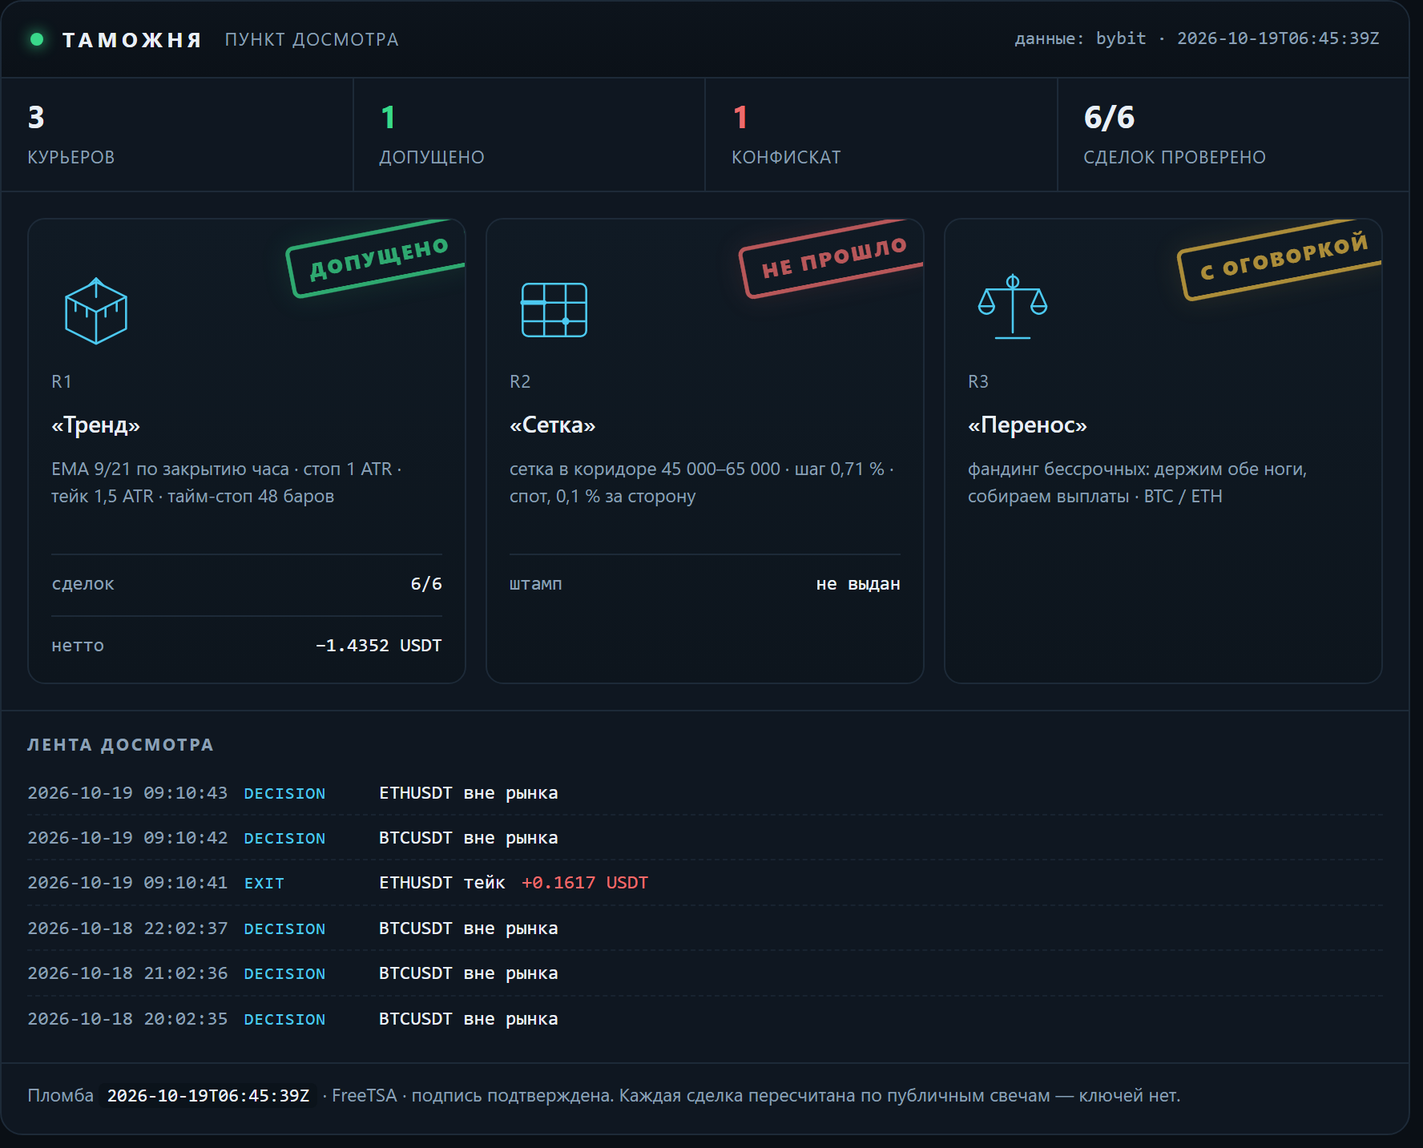
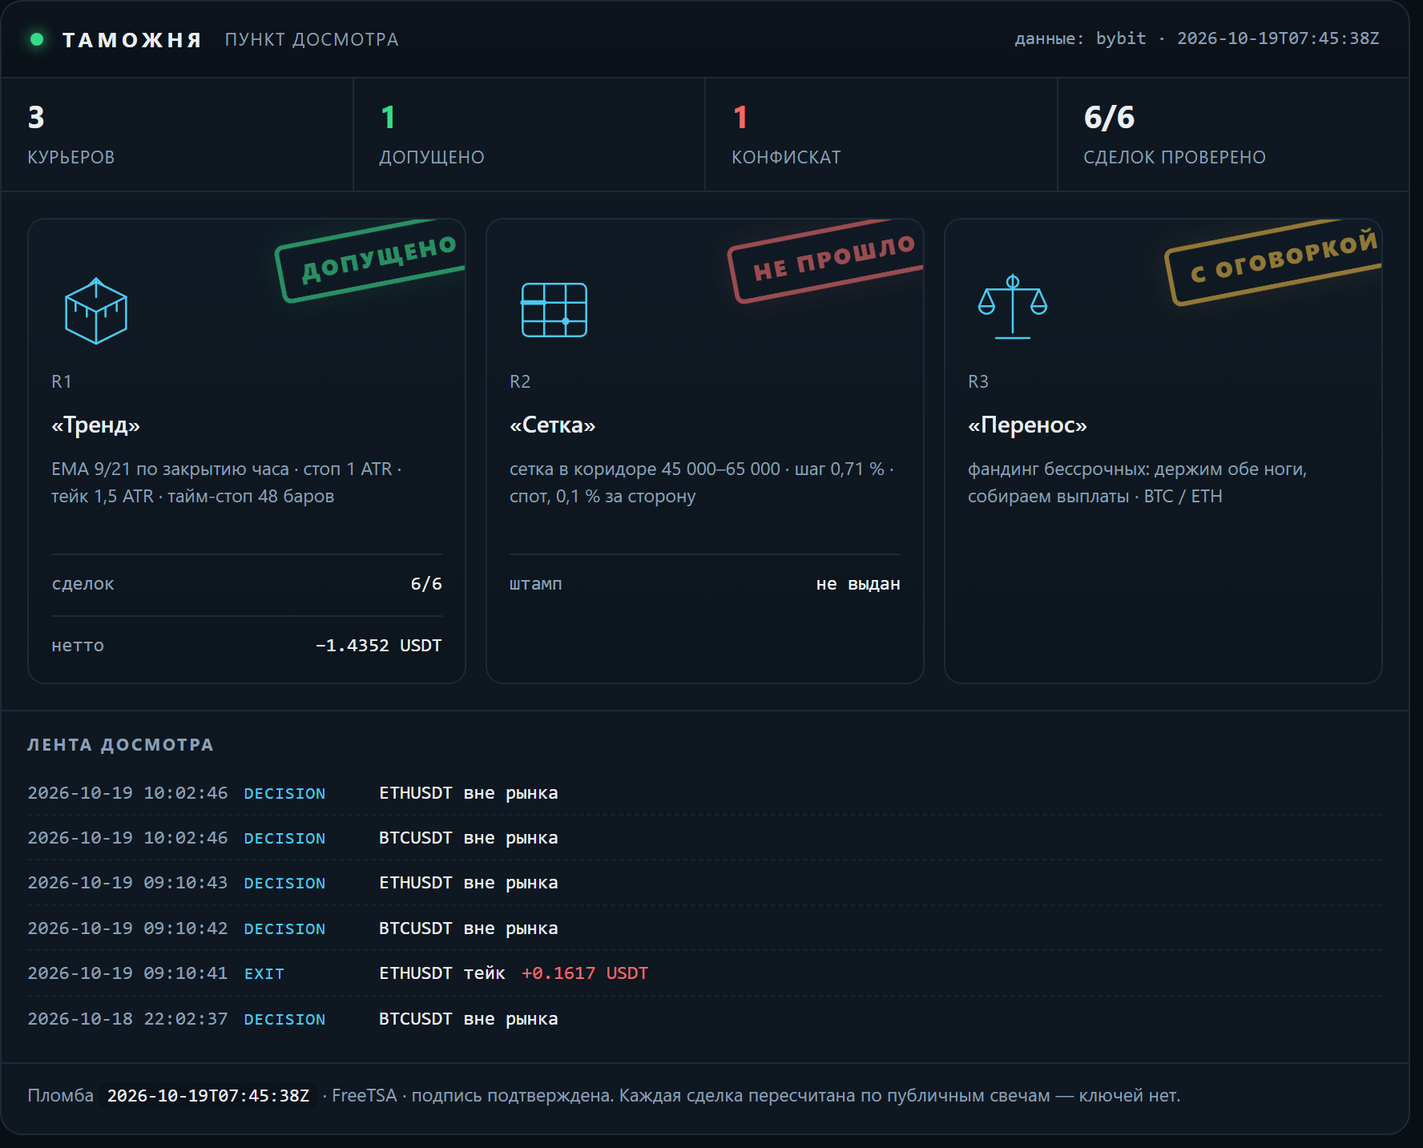
lab: таможня — свежие числа досмотра

diff --git a/docs/customs.html b/docs/customs.html
@@ -16,7 +16,7 @@
   <h1><a href="index.html">Gramwright Lab</a></h1>
   <p>Журнал проверки торговых гипотез: что проверяли, что вышло по факту, сколько съели издержки. Числа берутся из журнала стенда. Не инвестиционная рекомендация.</p>
 </header>
-<h1>Таможня</h1><p class="intro">Пункт досмотра заявленных результатов. Стратегии приезжают с грузом обещаний, и каждая проходит проверку по публичным данным биржи: цены существуют, комиссии по тарифу, нетто сходится. Что прошло — получает штамп. Что не прошло — в конфискат, с причиной. Штамп означает «записи подлинные», а не «стратегия прибыльна».</p><p><img src="img/customs.png" alt="Терминал досмотра: три курьера, штампы, лента событий" style="width:100%;height:auto;border:1px solid var(--line);border-radius:10px"></p><p class="c-note">Сверху — тот же терминал, что собирается из журналов: счётчики, эмблемы курьеров, штампы и лента последних событий. Ниже — то же самое текстом, чтобы читалось с телефона и индексировалось поиском.</p><article><h2>R1 «Тренд» <span class="verdict">— <span class="c-ok">допущено</span></span></h2><p><strong>Правило:</strong> EMA 9/21 по закрытию часа · стоп 1 ATR · тейк 1,5 ATR · тайм-стоп 48 баров</p><p><strong>Декларация:</strong> Заявлено до прогона: держать 30 сделок, лимит нотионала 10 % от счёта, стоп дня −1 %. Прибыль не заявлялась — это важно: курьер не обещал доход.</p><p><strong>Проверено по публичным свечам, без ключей:</strong> 6 из 6 сделок. Сумма нетто −1.4352 USDT.</p><ul class="c-chk"><li class="y">BTCUSDT: нетто −0.8746 USDT · комиссии 0.0901 · проверено · с поправкой</li><li class="y">BTCUSDT: нетто −0.5441 USDT · комиссии 0.0896 · проверено</li><li class="y">ETHUSDT: нетто −0.2253 USDT · комиссии 0.0266 · проверено</li><li class="y">ETHUSDT: нетто −0.1513 USDT · комиссии 0.0265 · проверено</li><li class="y">ETHUSDT: нетто +0.1984 USDT · комиссии 0.0262 · проверено</li><li class="y">ETHUSDT: нетто +0.1617 USDT · комиссии 0.0260 · проверено</li></ul><p class="tags">журнал sha256 e676dcd4d7034d17… · проверяльщик verify-1</p><p class="c-note">Штамп означает: записи подлинные, а не что стратегия прибыльна. Курьер в минусе, и минус тоже стоит на штампе — иначе это была бы не проверка, а реклама.</p><p class="tags">источник: verify-report.json</p></article><article><h2>R2 «Сетка» <span class="verdict">— <span class="c-bad">не прошло</span></span></h2><p><strong>Правило:</strong> сетка в коридоре 45 000–65 000 · шаг 0,71 % · спот, 0,1 % за сторону</p><p><strong>Декларация:</strong> Заявлено: «44 % урожая уходит бирже в виде комиссий». Кроме того — перевес над простым владением монетой.</p><p><strong>Что сошлось:</strong></p><ul class="c-chk"><li class="y">сами числа пересчитаны и воспроизводятся: коридор 45–65k был активен 23 % всей истории и 28 % последних двух лет</li></ul><p><strong>Что не сошлось:</strong></p><ul class="c-chk"><li class="n">44 % не подтвердилось: при шаге 0,71 % и тарифе 0,1 % комиссия съедает 28,3 % шага. Чтобы получить 44 %, нужен шаг 0,45 % — это около 80 уровней, а не 50</li><li class="n">от урожая доля комиссий 85,5 % за всю историю и 49,6 % за последние два года — тоже не 44 %</li><li class="n">перевес над владением посчитан на тарифе 0,055 %: при нём +1,32 п. п., на розничном 0,1 % — −0,72 п. п. То есть перевес исчезает</li><li class="n">семилетний тест стартовал в сентябре 2019 при биткоине около 10 000 — ниже коридора. Он говорит, что фиксированный коридор не подходит для периода, а не что сетка отстаёт</li></ul><p class="tags">источник: lab_grid.py, пересчёт 17.10.2026</p></article><article><h2>R3 «Перенос» <span class="verdict">— <span class="c-warn">с оговоркой</span></span></h2><p><strong>Правило:</strong> фандинг бессрочных: держим обе ноги, собираем выплаты · BTC / ETH</p><p><strong>Декларация:</strong> Заявлено: около 11,9 % в год от выплат фандинга при просадке выплатной кривой меньше 2 %.</p><p><strong>Что сошлось:</strong></p><ul class="c-chk"><li class="y">выплаты взяты из публичной истории биржи, ключей не нужно: BTC — 7 190 выплат с 25.03.2020, ETH — 6 561 с 21.10.2020</li><li class="y">сумма сходится: +83,4 % и +83,2 % за 6,6 и 6,0 года — те самые ~11,9 % в год</li><li class="y">худшая просадка выплатной кривой: −1,65 % и −1,97 %</li></ul><p><strong>Что не сошлось:</strong></p><ul class="c-chk"><li class="n">оговорка 1: премию сжали — 2021 год дал +38,3 %, 2026 — +1,96 %. Прошлое не повторяется</li><li class="n">оговорка 2: вход-выход стоит около 0,31 %, капитала нужно 1,2 от нотионала, текущий базис −0,082 % против входа</li><li class="n">оговорка 3: риск площадки. История FTX в этой же таблице выглядела так же прилично</li></ul><p class="tags">источник: публичная история фандинга Bybit, замер 17.10.2026</p></article><div class="c-conf"><h3>Конфискат</h3><p><strong>«Сетка»: заявленные 44 % комиссий не подтвердились.</strong> Досмотр показал 28,3 % от шага и 85,5 % от урожая — цифра хуже заявленной по форме, но лучше по смыслу: сетку убивает не размер шага, а то, что урожай почти весь уходит в комиссии. Это и вышло в выпуск — с поправкой, а не с красивой цифрой.</p></div><p class="c-note">Пломба: <code>2026-10-19T06:45:39Z</code> · нотариус FreeTSA · Oct 19 06:45:39 2026 GMT · подпись подтверждена. Манифест скрепляет отчёт проверки, журнал сделок и декларации курьеров: подменишь любую цифру — пломба перестанет сходиться.</p><p class="c-note">Досмотр идёт по публичным минутным свечам и публичной истории фандинга — ключей у проверяющего нет, и он может повторить проверку сам.</p><p class="c-note">Контент образовательный, не является инвестиционной рекомендацией. Торговля связана с риском потери капитала.</p>
+<h1>Таможня</h1><p class="intro">Пункт досмотра заявленных результатов. Стратегии приезжают с грузом обещаний, и каждая проходит проверку по публичным данным биржи: цены существуют, комиссии по тарифу, нетто сходится. Что прошло — получает штамп. Что не прошло — в конфискат, с причиной. Штамп означает «записи подлинные», а не «стратегия прибыльна».</p><p><img src="img/customs.png" alt="Терминал досмотра: три курьера, штампы, лента событий" style="width:100%;height:auto;border:1px solid var(--line);border-radius:10px"></p><p class="c-note">Сверху — тот же терминал, что собирается из журналов: счётчики, эмблемы курьеров, штампы и лента последних событий. Ниже — то же самое текстом, чтобы читалось с телефона и индексировалось поиском.</p><article><h2>R1 «Тренд» <span class="verdict">— <span class="c-ok">допущено</span></span></h2><p><strong>Правило:</strong> EMA 9/21 по закрытию часа · стоп 1 ATR · тейк 1,5 ATR · тайм-стоп 48 баров</p><p><strong>Декларация:</strong> Заявлено до прогона: держать 30 сделок, лимит нотионала 10 % от счёта, стоп дня −1 %. Прибыль не заявлялась — это важно: курьер не обещал доход.</p><p><strong>Проверено по публичным свечам, без ключей:</strong> 6 из 6 сделок. Сумма нетто −1.4352 USDT.</p><ul class="c-chk"><li class="y">BTCUSDT: нетто −0.8746 USDT · комиссии 0.0901 · проверено · с поправкой</li><li class="y">BTCUSDT: нетто −0.5441 USDT · комиссии 0.0896 · проверено</li><li class="y">ETHUSDT: нетто −0.2253 USDT · комиссии 0.0266 · проверено</li><li class="y">ETHUSDT: нетто −0.1513 USDT · комиссии 0.0265 · проверено</li><li class="y">ETHUSDT: нетто +0.1984 USDT · комиссии 0.0262 · проверено</li><li class="y">ETHUSDT: нетто +0.1617 USDT · комиссии 0.0260 · проверено</li></ul><p class="tags">журнал sha256 a6f962e007afc57d… · проверяльщик verify-1</p><p class="c-note">Штамп означает: записи подлинные, а не что стратегия прибыльна. Курьер в минусе, и минус тоже стоит на штампе — иначе это была бы не проверка, а реклама.</p><p class="tags">источник: verify-report.json</p></article><article><h2>R2 «Сетка» <span class="verdict">— <span class="c-bad">не прошло</span></span></h2><p><strong>Правило:</strong> сетка в коридоре 45 000–65 000 · шаг 0,71 % · спот, 0,1 % за сторону</p><p><strong>Декларация:</strong> Заявлено: «44 % урожая уходит бирже в виде комиссий». Кроме того — перевес над простым владением монетой.</p><p><strong>Что сошлось:</strong></p><ul class="c-chk"><li class="y">сами числа пересчитаны и воспроизводятся: коридор 45–65k был активен 23 % всей истории и 28 % последних двух лет</li></ul><p><strong>Что не сошлось:</strong></p><ul class="c-chk"><li class="n">44 % не подтвердилось: при шаге 0,71 % и тарифе 0,1 % комиссия съедает 28,3 % шага. Чтобы получить 44 %, нужен шаг 0,45 % — это около 80 уровней, а не 50</li><li class="n">от урожая доля комиссий 85,5 % за всю историю и 49,6 % за последние два года — тоже не 44 %</li><li class="n">перевес над владением посчитан на тарифе 0,055 %: при нём +1,32 п. п., на розничном 0,1 % — −0,72 п. п. То есть перевес исчезает</li><li class="n">семилетний тест стартовал в сентябре 2019 при биткоине около 10 000 — ниже коридора. Он говорит, что фиксированный коридор не подходит для периода, а не что сетка отстаёт</li></ul><p class="tags">источник: lab_grid.py, пересчёт 17.10.2026</p></article><article><h2>R3 «Перенос» <span class="verdict">— <span class="c-warn">с оговоркой</span></span></h2><p><strong>Правило:</strong> фандинг бессрочных: держим обе ноги, собираем выплаты · BTC / ETH</p><p><strong>Декларация:</strong> Заявлено: около 11,9 % в год от выплат фандинга при просадке выплатной кривой меньше 2 %.</p><p><strong>Что сошлось:</strong></p><ul class="c-chk"><li class="y">выплаты взяты из публичной истории биржи, ключей не нужно: BTC — 7 190 выплат с 25.03.2020, ETH — 6 561 с 21.10.2020</li><li class="y">сумма сходится: +83,4 % и +83,2 % за 6,6 и 6,0 года — те самые ~11,9 % в год</li><li class="y">худшая просадка выплатной кривой: −1,65 % и −1,97 %</li></ul><p><strong>Что не сошлось:</strong></p><ul class="c-chk"><li class="n">оговорка 1: премию сжали — 2021 год дал +38,3 %, 2026 — +1,96 %. Прошлое не повторяется</li><li class="n">оговорка 2: вход-выход стоит около 0,31 %, капитала нужно 1,2 от нотионала, текущий базис −0,082 % против входа</li><li class="n">оговорка 3: риск площадки. История FTX в этой же таблице выглядела так же прилично</li></ul><p class="tags">источник: публичная история фандинга Bybit, замер 17.10.2026</p></article><div class="c-conf"><h3>Конфискат</h3><p><strong>«Сетка»: заявленные 44 % комиссий не подтвердились.</strong> Досмотр показал 28,3 % от шага и 85,5 % от урожая — цифра хуже заявленной по форме, но лучше по смыслу: сетку убивает не размер шага, а то, что урожай почти весь уходит в комиссии. Это и вышло в выпуск — с поправкой, а не с красивой цифрой.</p></div><p class="c-note">Пломба: <code>2026-10-19T07:45:38Z</code> · нотариус FreeTSA · Oct 19 07:45:38 2026 GMT · подпись подтверждена. Манифест скрепляет отчёт проверки, журнал сделок и декларации курьеров: подменишь любую цифру — пломба перестанет сходиться.</p><p class="c-note">Досмотр идёт по публичным минутным свечам и публичной истории фандинга — ключей у проверяющего нет, и он может повторить проверку сам.</p><p class="c-note">Контент образовательный, не является инвестиционной рекомендацией. Торговля связана с риском потери капитала.</p>
 <footer class="site">
   Код стенда и аудитора: <a href="https://github.com/XSlaidx/truth-engine">XSlaidx/truth-engine</a>
   &middot; <a href="graveyard.html">кладбище правил</a>
